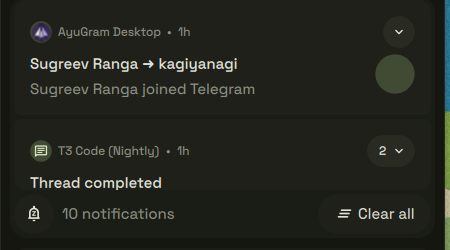
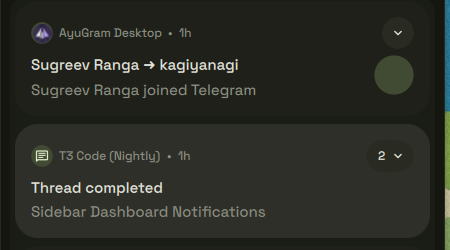
revert(ii-sidebarDashboard): keep the notification cards' own corners and gaps
The Android-shade stack from the previous commit is undone at the owner's
request. Each group is again its own rounding.large card, 8 apart, under the
rounding.normal clip at a 5 inset. The stackTop/stackBottom plumbing in
NotificationGroup and NotificationListView is gone, so the shared card is back
to what it was apart from the app-name fix.

The footer and the "ki…" fix stay. check-notification-stack.py is now
check-notification-app-name.py and covers only the name cap.

diff --git a/dots/.config/quickshell/ii/modules/common/widgets/NotificationGroup.qml b/dots/.config/quickshell/ii/modules/common/widgets/NotificationGroup.qml
@@ -37,21 +37,6 @@ MouseArea { // Notification group area
     // The group's index in the notification list, passed down rather than read
     // off `parent.children`: SwipeDismissible nudges the neighbours by it.
     property int itemIndex: -1
-    // Outside a popup the groups are one stack, as in the Android shade: the
-    // ends take the outer corners, the joins go small, and a card being swiped
-    // rounds off on its own. The defaults are a standalone card.
-    property bool stackTop: true
-    property bool stackBottom: true
-    readonly property real outerRadius: root.popup ? Appearance.rounding.large : Appearance.rounding.small
-    readonly property bool standalone: root.popup || dragManager.dragging
-    property real topRadius: root.standalone || root.stackTop ? root.outerRadius : Appearance.rounding.unsharpenmore
-    property real bottomRadius: root.standalone || root.stackBottom ? root.outerRadius : Appearance.rounding.unsharpenmore
-    Behavior on topRadius {
-        animation: Appearance.animation.elementMoveSmall.numberAnimation.createObject(this)
-    }
-    Behavior on bottomRadius {
-        animation: Appearance.animation.elementMoveSmall.numberAnimation.createObject(this)
-    }
     // The service stores urgency as the enum's decimal string; Number() reads
     // that and the raw enum alike.
     readonly property bool urgent: root.notifications.some(n => Number(n.urgency) === NotificationUrgency.Critical)
@@ -116,12 +101,7 @@ MouseArea { // Notification group area
         anchors.left: parent.left
         width: parent.width
         color: root.popup ? Appearance.colors.colBackgroundSurfaceContainer : Appearance.colors.colLayer2
-        // The shadow reads `radius`; it only shows on a standalone card.
-        radius: root.outerRadius
-        topLeftRadius: root.topRadius
-        topRightRadius: root.topRadius
-        bottomLeftRadius: root.bottomRadius
-        bottomRightRadius: root.bottomRadius
+        radius: Appearance.rounding.large
         anchors.leftMargin: dragManager.xOffset
 
         // The snap back after a released swipe: spatial, and on one spec rather
@@ -155,10 +135,10 @@ MouseArea { // Notification group area
             press: dragManager.pressed && !dragManager.dragging
             drag: dragManager.dragging
             contentColor: Appearance.colors.colOnLayer2
-            topLeftRadius: root.topRadius
-            topRightRadius: root.topRadius
-            bottomLeftRadius: root.bottomRadius
-            bottomRightRadius: root.bottomRadius
+            topLeftRadius: background.radius
+            topRightRadius: background.radius
+            bottomLeftRadius: background.radius
+            bottomRightRadius: background.radius
         }
 
         ColumnLayout {

diff --git a/dots/.config/quickshell/ii/modules/common/widgets/NotificationListView.qml b/dots/.config/quickshell/ii/modules/common/widgets/NotificationListView.qml
@@ -9,8 +9,7 @@ StyledListView { // Scrollable window
     id: root
     property bool popup: false
 
-    // The popup's toasts stand apart; the sidebar's groups join into one stack.
-    spacing: root.popup ? 8 : 4
+    spacing: 8
 
     model: ScriptModel {
         values: root.popup ? Notifications.popupAppNameList : Notifications.appNameList
@@ -26,8 +25,6 @@ StyledListView { // Scrollable window
         // Handed down rather than read off `parent.children`: SwipeDismissible
         // nudges the neighbouring groups by it.
         itemIndex: group.index
-        stackTop: group.index === 0
-        stackBottom: group.index === root.count - 1
         width: ListView.view.width // https://doc.qt.io/qt-6/qml-qtquick-listview.html
         notificationGroup: group.popup ?
             Notifications.popupGroupsByAppName[group.modelData] :

diff --git a/dots/.config/quickshell/ii/modules/ii/sidebarDashboard/notifications/NotificationList.qml b/dots/.config/quickshell/ii/modules/ii/sidebarDashboard/notifications/NotificationList.qml
@@ -16,17 +16,15 @@ Item {
         anchors.right: parent.right
         anchors.top: parent.top
         anchors.bottom: footer.top
-        anchors.bottomMargin: 4
+        anchors.bottomMargin: 5
 
-        // Clipped to the stack's own outer corners, so a card scrolled under the
-        // edge keeps the corners it has at rest.
         clip: true
         layer.enabled: true
         layer.effect: OpacityMask {
             maskSource: Rectangle {
                 width: listview.width
                 height: listview.height
-                radius: Appearance.rounding.small
+                radius: Appearance.rounding.normal
             }
         }
 

diff --git a/dots/.config/quickshell/ii/modules/ii/sidebarDashboard/CenterWidgetGroup.qml b/dots/.config/quickshell/ii/modules/ii/sidebarDashboard/CenterWidgetGroup.qml
@@ -10,6 +10,6 @@ Rectangle {
 
     NotificationList {
         anchors.fill: parent
-        anchors.margins: 4
+        anchors.margins: 5
     }
 }

diff --git a/tools/check-notification-app-name.py b/tools/check-notification-app-name.py
@@ -1,0 +1,22 @@
+#!/usr/bin/env python3
+"""A notification group's header shows its whole app name when it fits.
+
+TextMetrics.width is rounded to an int. "kitty" is 26.11px wide in the shipped font,
+so a cap of `metrics.width` gave it 26 and it elided to "ki...", while "Beeper" (41.4)
+rounded up to 42 and fit. The cap has to be the ceiling of `advanceWidth`, which is
+what the Text itself measures.
+"""
+import re
+from pathlib import Path
+
+W = Path(__file__).resolve().parent.parent / "dots/.config/quickshell/ii/modules/common/widgets"
+group = (W / "NotificationGroup.qml").read_text()
+
+for m in re.finditer(r"Layout\.maximumWidth:\s*(.+)", group):
+    expr = m.group(1)
+    assert not re.search(r"[Mm]etrics\.width\b", expr), \
+        f"NotificationGroup: `maximumWidth: {expr}` reads TextMetrics.width, which is rounded down as often as up"
+assert re.search(r"Math\.ceil\(\s*appNameMetrics\.advanceWidth\s*\)", group), \
+    "NotificationGroup: the app name cap is no longer ceil(advanceWidth)"
+
+print("ok: the app name is capped at ceil(advanceWidth)")

diff --git a/.audit/ii-sidebarDashboard-notifications/notes.md b/.audit/ii-sidebarDashboard-notifications/notes.md
@@ -6,10 +6,9 @@ screen. `notify-send` is broken on this machine (a libnotify symbol lookup error
 shot uses whatever is already in `~/.cache/quickshell/notifications/notifications.json`.
 
 **The list is the user's real notifications.** Nothing here pressed Clear all or swiped a
-card. Two things are therefore **unverified live**: the empty state, where the count fades
-and Clear all dims to 0.4, and the drag rounding a card's joins to `small`. Both are one
-binding. If you need to see them, copy `notifications.json` aside first, and restore it before
-restarting the shell (the service loads it on start).
+card, so the empty state is **unverified live**: the count fading out and Clear all dimming
+to 0.4, one binding each. To see it, copy `notifications.json` aside first, and restore it
+before restarting the shell (the service loads it on start).
 
 **The "ki…" bug was a rounding error, not the layout.** Measured under
 `/usr/lib/qt6/bin/qml` with the shell's font (Space Grotesk 12px, wght 450). Output is only
@@ -20,11 +19,13 @@ theme swallows `console.*`. Results: "kitty" implicit 26.11 vs `TextMetrics.widt
 `.width` as a size, `waffle/looks/WTextWithFixedWidth.qml` and `ii/bar/Resource.qml`. They're
 out of this row, and neither has been seen eliding.
 
-**Why the stack lives in the shared card.** `NotificationGroup` only knows whether it's a
-popup. The list passes `stackTop`/`stackBottom` from `index` and `count`. Both default to
-true, so any other caller still gets a standalone card. The popup is always standalone,
-because `standalone` includes `popup`. `check-notification-stack.py` holds that rule and the
-`ceil(advanceWidth)` cap. Both were mutation-tested.
+**Reverted on review: the Android-shade stack.** The first commit joined the sidebar's
+groups into one stack: `rounding.small` at the ends, `unsharpenmore` at the joins, 4 apart,
+and all `small` while swiped. The owner prefers the original separate `rounding.large`
+cards 8 apart, so those radii, the gap, the `normal` clip and the 5 insets are back as they
+were. The 5s are off the 4dp grid, and check-design warns on them. That is deliberate: do
+not "fix" them back to 4 in a later row, and do not propose the stack again.
+`check-notification-app-name.py` covers only the name cap now.
 
 **Rejected.** Hiding Clear all when the list is empty, as the Android shade does. `visible`
 snaps, and fading `opacity` would fight RippleButton's own disabled fade. Disabled at 0.4 is
@@ -32,13 +33,11 @@ the shell's convention and animates by itself. Choosing the count label's fade s
 `root.count` was also dropped: that binding and the Behavior hang off the same change, in an
 undefined order (2.9). It fades on `elementMoveFast` both ways, matching the button.
 
-**Vision pass (agy, gemini-3.1-pro-high).** It claimed that the outer corners stayed large,
-that the joins were square, and that the footer order was reversed. The first two are wrong
-when you zoom in: about 12px at the ends and about 6px at the joins. The tonal step from
-`colLayer2` to `colLayer1` is small enough that it misread them. The third mistook the brief's
-order of visual weight for a left-to-right order.
+**Vision pass (agy, gemini-3.1-pro-high).** Run on the stack version. It misread the joins
+as square (they were about 6px), because the tonal step from `colLayer2` to `colLayer1` is
+small. It also mistook the brief's order of visual weight for a left-to-right order. It has
+not been rerun on the reverted cards.
 
-**For the cohesion pass (motion).** New: a sidebar card's join corners round to `small` on
-`elementMoveSmall` when a swipe starts, and back when it ends. The count label fades on
+**For the cohesion pass (motion).** The count label fades on
 `elementMoveFast`, and the silent icon's colour now follows its background on
 `elementMoveFast`.

diff --git a/.audit/QUEUE.md b/.audit/QUEUE.md
@@ -102,7 +102,7 @@ fenced the same way the twelve `cw-*` rows were.
 | `ii-sidebarDashboard-calendar` | `modules/ii/sidebarDashboard/calendar` | sidebarDashboard | 1 | 5 | 483 | `ipc call sidebarRight open` → Calendar tab | done | 2026-09-25 | the grid was 49 `RippleButton` layers, now plain cells. One event card on `ArrowPopupMotion`, pivoting on the day; the per-cell loader never drew the start of its enter. All-day events and "+N more". The GCal tap is the owner's, kept. `check-calendar.py` |
 | `ii-sidebarDashboard-hotspot` | `modules/ii/sidebarDashboard/hotspot` | sidebarDashboard | 1 | 1 | 309 | `ipc call sidebarRight openDialog Hotspot` | todo | |  |
 | `ii-sidebarDashboard-nightLight` | `modules/ii/sidebarDashboard/nightLight` | sidebarDashboard | 1 | 1 | 228 | `ipc call sidebarRight openDialog NightLight` | todo | |  |
-| `ii-sidebarDashboard-notifications` | `modules/ii/sidebarDashboard/notifications` | sidebarDashboard | 1 | 1 | 74 | `ipc call sidebarRight open` → centre card | done | 2026-09-25 | the groups are one Android-shade stack now: `small` at the ends, `unsharpenmore` at the joins, and all `small` while swiped. The popup stays standalone. The footer was a `ButtonGroup` whose middle was a disabled button standing in for a label. It's a count label and a "Clear all" pill now. App names were cut to "ki…" because `TextMetrics.width` rounds, and the shared card is fixed so the popup gets it too. `check-notification-stack.py`. The empty state and a live swipe are unverified, because the list is the user's real one; see `notes.md` |
+| `ii-sidebarDashboard-notifications` | `modules/ii/sidebarDashboard/notifications` | sidebarDashboard | 1 | 1 | 74 | `ipc call sidebarRight open` → centre card | done | 2026-09-25 | the footer was a `ButtonGroup` whose middle was a disabled button standing in for a label. It's a count label and a "Clear all" pill now, and both dim and fade when the list empties. App names were cut to "ki…" because `TextMetrics.width` rounds, and the shared card is fixed so the popup gets it too. `check-notification-app-name.py`. **The card radii and gaps are the owner's choice**: an Android-shade stack was built and reverted, see `notes.md` |
 | `ii-sidebarDashboard-pomodoro` | `modules/ii/sidebarDashboard/pomodoro` | sidebarDashboard | 1 | 4 | 376 | `ipc call sidebarRight open` → Timer rail tab | done | 2026-09-25 | one `TimerButton` pair on both tabs, start/pause filled on the right and squaring while running; no more error-red Reset. The stopwatch's 10ms service timer is now 100ms plus a frame clock that runs only while it is seen; its start had overflowed int. `check-pomodoro.py` |
 | `ii-sidebarDashboard-quickToggles` | `modules/ii/sidebarDashboard/quickToggles` | sidebarDashboard | 1 | 47 | 4723 | ? | todo | |  |
 | `ii-sidebarDashboard-todo` | `modules/ii/sidebarDashboard/todo` | sidebarDashboard | 1 | 3 | 367 | `ipc call sidebarRight open` → To Do rail tab | done | 2026-09-25 | Google Tasks side-panel rows: a leading circle, the text, and delete, on one line. They were two lines with 30px square buttons. The FAB, which covered the last row, and the scrim dialog gave way to an always-visible "Add a task" field. The model is keyed, so a tick slides one row out instead of rebuilding them all. `check-todo.py` |

diff --git a/.audit/ii-sidebarDashboard-notifications/brief.md b/.audit/ii-sidebarDashboard-notifications/brief.md
@@ -10,21 +10,13 @@ pill at the foot, which is where the Android shade keeps it.
 `colSubtext`, then the silent toggle.
 
 **Reference.** The Android 16 notification shade (SystemUI's `NotificationStackScrollLayout`).
-It is one stack of cards with small corners where cards meet (`notification_corner_radius_small`)
-and full corners at the ends. A card that is being swiped rounds off by itself. The footer
-has a "Clear all" pill and no count. This panel keeps a count because there's no status bar
+The footer has a "Clear all" pill and no count. This panel keeps a count because there's no status bar
 icon row to carry it.
 
 **Interaction.**
-- *Stack.* When not a popup, the groups sit 4 apart (`ButtonGroup`'s gap, not the popup's 8).
-  The first card's top corners and the last card's bottom corners are `rounding.small`, nested
-  in the `rounding.normal` card the list sits on at a 4 inset. Every join is
-  `rounding.unsharpenmore`. A dragged card takes `rounding.small` on all four corners, on
-  `elementMoveSmall` (a shape, so spatial). The popup's cards are unchanged: standalone,
-  `rounding.large`, 8 apart.
-- *Clip.* The list's rounded clip is `rounding.small`, the same as the stack's outer corners. A
-  card scrolled halfway under the edge then has the same corners as a card at rest. It used to
-  be `normal`, bigger than the cards and the same as the parent (7).
+- *Cards.* Unchanged from before the audit, by the owner's choice: each group is its own
+  `rounding.large` card, 8 apart, under a `rounding.normal` clip at a 5 inset. An Android-shade
+  stack (small joins, 4 apart) was built, then reverted on review. See `notes.md`.
 - *Footer.* A `RowLayout`, not a `ButtonGroup`. The middle of the group was a disabled button
   pretending to be a label, drawn at 0.4 opacity as though it could be pressed but wasn't.
   - Silent: a round 40px `RippleButton` icon toggle (primary when on), with a tooltip. The
@@ -36,9 +28,9 @@ icon row to carry it.
   `advanceWidth` now. That is a fix to the shared card, so the popup gets it too.
 
 **Edge states.**
-- *Empty:* `PagePlaceholder` "No notifications" (was "Nothing"). The count and "Clear all"
-  hide, and the silent toggle stays, because silencing an empty shade still means something.
-- *One item:* one card, all four corners outer. "1 notification".
+- *Empty:* `PagePlaceholder` "No notifications" (was "Nothing"). The count fades out and
+  "Clear all" dims to disabled. The silent toggle stays, because silencing an empty shade still means something.
+- *One item:* one card. "1 notification".
 - *Many:* the list scrolls under the rounded clip, and the footer stays put.
 
 **Cost.** One `OpacityMask` layer over the list, as before, not repeated. The cards' shadow is

diff --git a/AGENTS.md b/AGENTS.md
@@ -377,11 +377,9 @@ you touched; they are the only automated gate.
   tick. It is keyed now. The check runs the key binding under node. The key must be unique
   across identical tasks and must survive a tick and a delete above it. A matched key
   delivers the fresh `originalIndex` the service acts on
-- `python3 tools/check-notification-stack.py` — a notification group's header shows the
-  whole app name, and only the sidebar's groups join into a stack. `TextMetrics.width`
-  is rounded to an int, so a cap on it cut "kitty" (26.11px) to "ki…" and left "Beeper"
-  (41.4 → 42) alone. The cap is `ceil(advanceWidth)`. The joins' small corners must never
-  reach a popup toast or a card being swiped
+- `python3 tools/check-notification-app-name.py` — a notification group's header shows the
+  whole app name. `TextMetrics.width` is rounded to an int, so a cap on it cut "kitty"
+  (26.11px) to "ki…" and left "Beeper" (41.4 → 42) alone. The cap is `ceil(advanceWidth)`
 - `bash tools/audit/probe-settings-pages.sh` — instantiates all 61 settings sub-pages in one
   throwaway `qs -p` config and fails on a dirty log. They load on demand, so neither smoke
   script reaches them; run it after touching anything under `modules/settings/widgets/`
